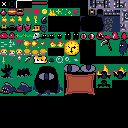
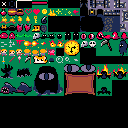
Added bosses and animated the fish
Bosses are now able to spawn, the fish is animated. However, I would like to change animation so that it works when the boss is moving around. Will work on that later.

The boss room may have to be a different floor color... bc my designs kinda blend in right now.

Updated the readme cuz why not.

Spritesheet is 100% up to date.

diff --git a/README.md b/README.md
@@ -1,12 +1,25 @@
 # COSC438_final
+by Zack Taylor, Hannah Roe, Ali Yar Khan, Whitney Trovinger
 
-Hi, I'm Zachary Taylor
+##Milestone Goals:
+###November 1st: Procedurally generated map, collisions, and sprites completed. Some combat and movement started.
+###November 15th: Combat, bosses, and end game completed. 
+###November 26th: Upgrade system, escape feature, and cutscenes complete
+###December 10th: Dynamic lighting and music complete
 
-## Homework this Weekend: 
-- Play Pico 8 games and compile ideas! 
+##Key Features: 
+- Top down 2D
+- Procedurally generated levels
+- Real time combat 
+- Upgrade System & Shop system 
+- Mini bosses after every level, final boss at the end 
+- Escape feature to return to a hub
 
-I'm changing this readme. 
+##Not So Key Features (But We Still Like Them) 
+- Dynamic Lighting System 
+- Cutscenes for story building
+- One-time use item flashes and gets rid of enemies 
+- Spooky music
+- Enemies: rat,ghosty thing, hopping skeleton head. 
 
-Im changing my branch. 
 
-Whitney is now on this readme. 
